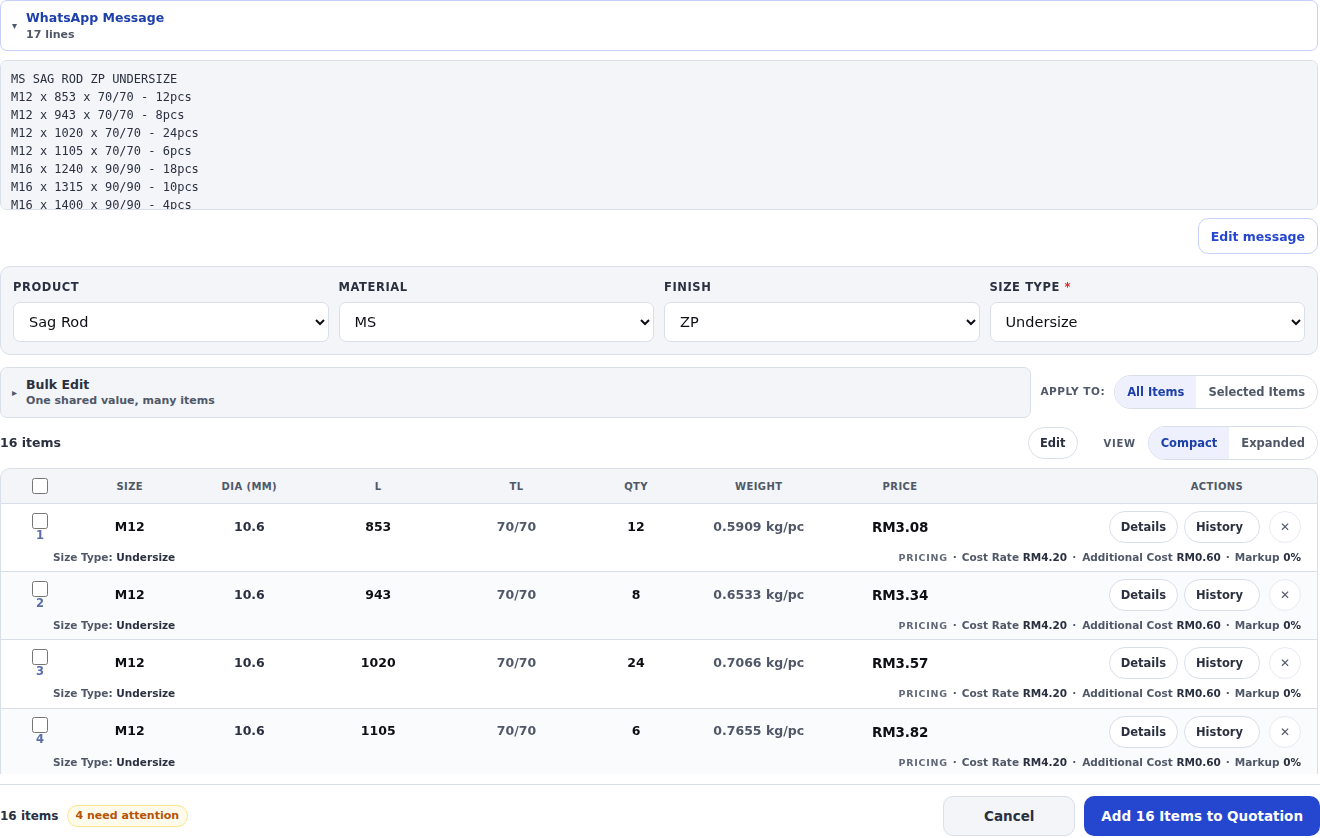
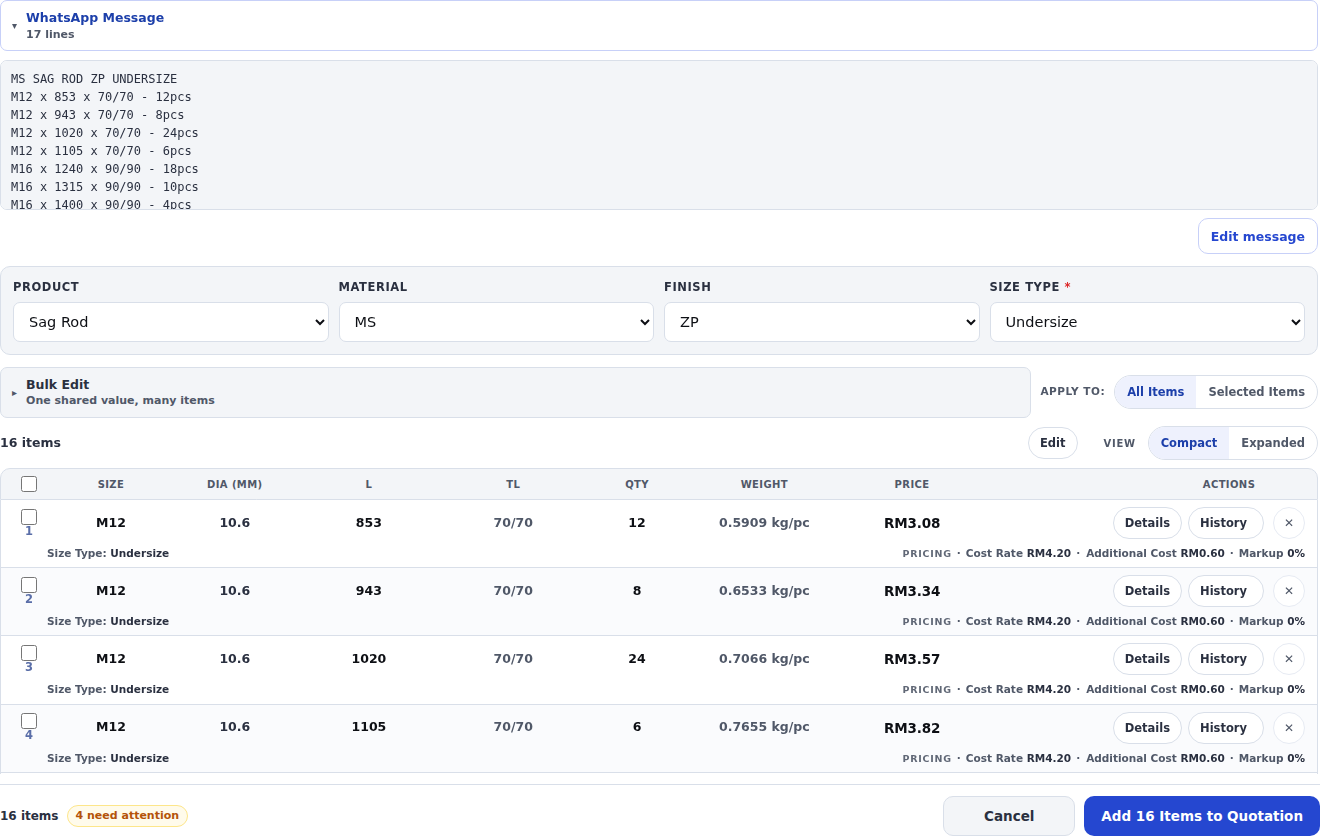
A J Bolt names four dimensions, and its minimums are what have to fit
The wider panel spent its width in the wrong place. Raising the column
minimums to fill 1360px looked right on a Sag Rod, which has two dimension
tracks, and broke a J Bolt, which has four: at 1366 the panel is 1302px and
ten tracks at their new minimums came to more than that. The summary grid
stopped fitting its own box and Delete was pushed outside the list. Three
assertions in 17-quickadd-layout said so.

Every minimum is the accepted one again, to the pixel, and the gap and the
padding with them. Only the maxima are new: fr, so the columns take the room a
Stud or a Sag Rod leaves spare and give up all of it when a J Bolt needs it.
The panel is still min(1360px, 100vw - 64px), the data line is still 46px, the
pricing summary still fits one line, and a clean item still costs 67px where it
cost 84.

The test was not touched. It was right.

Evidence recaptured from this source.

37 suites, 3,613 assertions, 0 failed, 0 skipped. 161 + 107 + 62 + 15 beside
them, for 3,958.

Claude-Session: https://claude.ai/code/session_019Jgh4wkFWEo8JUFHMre3Ps

diff --git a/index.php b/index.php
@@ -2156,22 +2156,22 @@ input,select,textarea{
    and the extra goes into the tracks the values live in rather than into the
    slack column. Everything below 1200px keeps the layout it already had.     */
 @media (min-width:1200px){
+  /* Every MINIMUM here is the accepted one, to the pixel, and only the maxima
+     are new. That is deliberate: a J Bolt names four dimensions, and its ten
+     tracks at their minimum widths are what decides whether the row fits its
+     own box. Raising those minima to spend the new width is what broke it —
+     at 1366 the panel is 1302px and a J Bolt wants every pixel of it. The fr
+     maxima give the columns the room when a Stud or a Sag Rod leaves it
+     spare, and give up all of it when a J Bolt does not. The gap and the
+     padding stay at the accepted figures for the same reason. */
   .wqa-modal{
     width:min(1360px,calc(100vw - 64px));max-width:none;
-    --wqa-lead: 46px minmax(74px,.85fr) minmax(78px,.85fr);
-    --wqa-dim:  minmax(88px,1fr);
-    --wqa-dim-spec: minmax(280px,2.4fr);
-    --wqa-tail: minmax(62px,.7fr) minmax(116px,1.05fr) minmax(104px,1fr)
-                minmax(90px,1.15fr) 168px;
+    --wqa-lead: 32px minmax(62px,.85fr) minmax(64px,.85fr);
+    --wqa-dim:  minmax(78px,1fr);
+    --wqa-dim-spec: minmax(250px,2.4fr);
+    --wqa-tail: minmax(56px,.7fr) minmax(104px,1.05fr) minmax(90px,1fr)
+                minmax(0,1.15fr) 152px;
   }
-  /* One rhythm down the table: the header, the values and the metadata under
-     them share a left edge, and the row gains the vertical room the round asks
-     for without the item block growing — the summary that used to wrap now
-     fits on the one line it was always meant to be. */
-  .wqa-list-head,.wqa-sum{gap:0 14px;padding-left:16px;padding-right:16px}
-  .wqa-list-head{padding-top:9px;padding-bottom:9px}
-  .wqa-row .wqa-meta{padding-left:52px;padding-right:16px}
-  .wqa-row .wqa-row-sub{padding-left:52px;padding-right:16px}
   /* The pricing summary is two sentences that were stacked because a 900px
      panel had nowhere to put them. It holds 219px of text in a 1316px row, so
      at this width they sit side by side and a clean item costs one line plus
